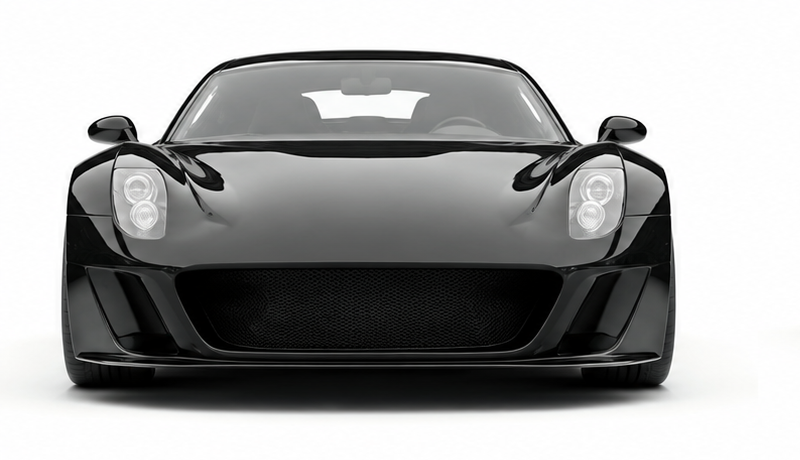
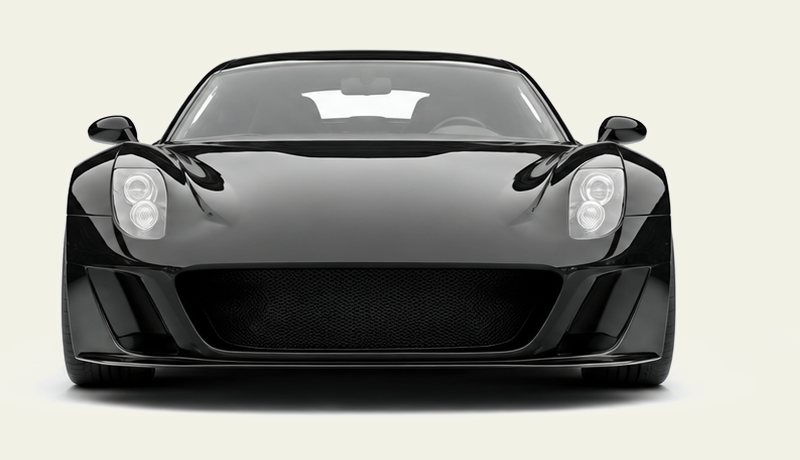
LeftScreen: Update the background color of LeftScreen to Abaidh White for better visuals

diff --git a/ui/LeftScreen/LeftScreen.qml b/ui/LeftScreen/LeftScreen.qml
@@ -9,7 +9,7 @@ Rectangle{
         right: rightScreen.left
         left: parent.left
     }
-    color: "white"
+    color: "#F2F1E6"
 
     property alias carImageSource: carRender.source
 
